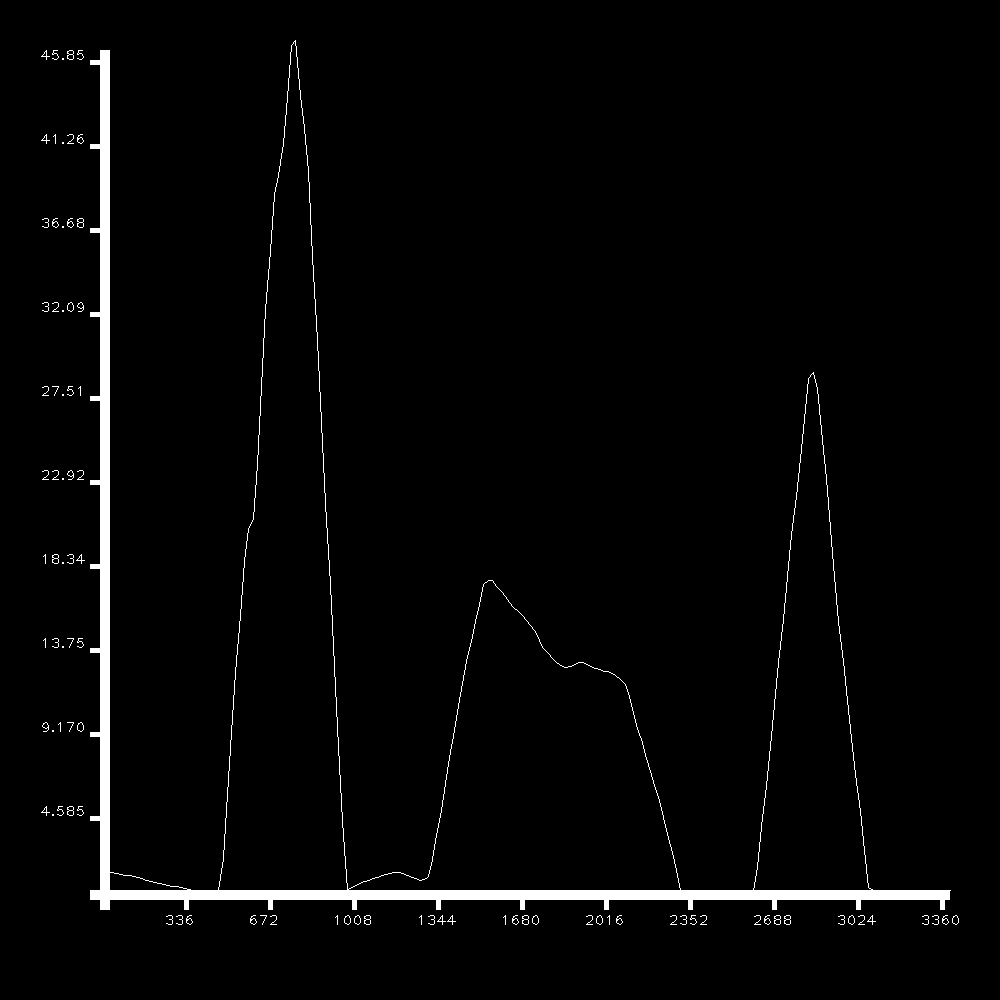
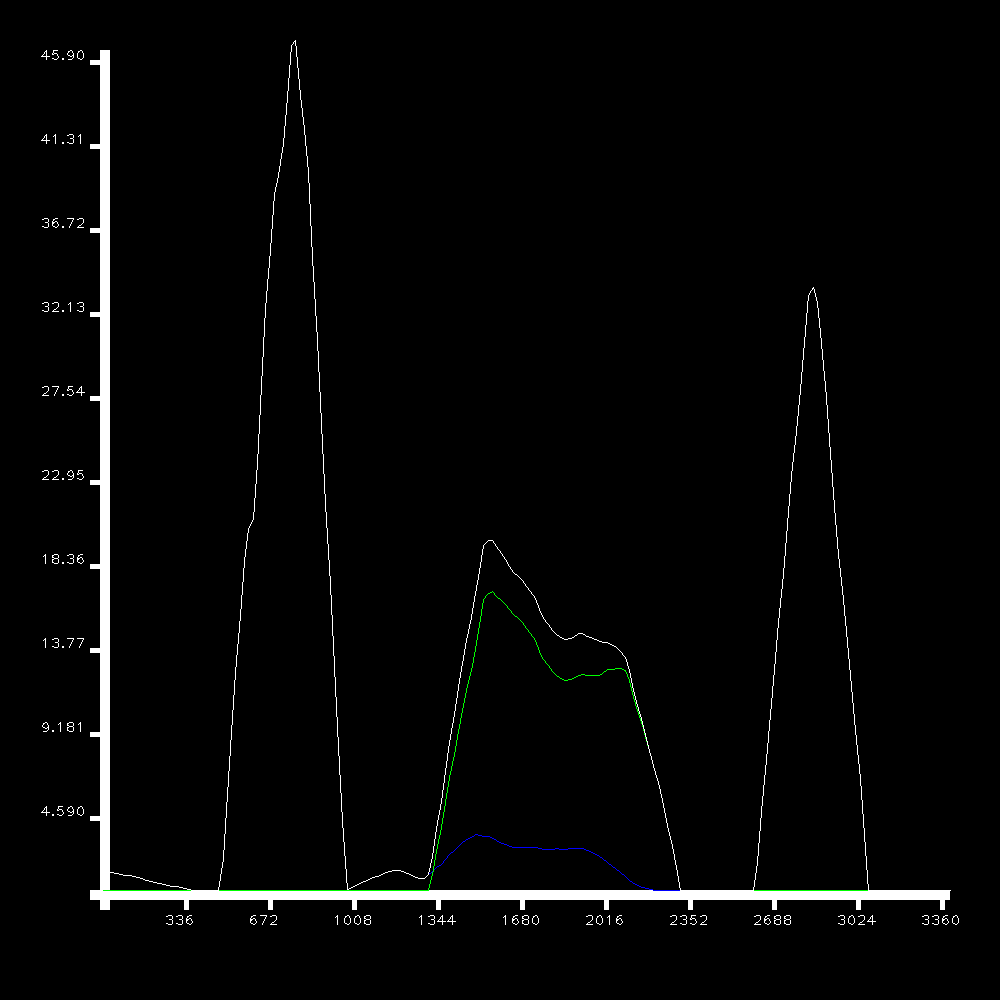
Add the color for the graph

Changed region(s): [[0.465, 0.589, 0.496, 0.62], [0.403, 0.868, 0.434, 0.899]]

diff --git a/Enemy_Data/graph.h b/Enemy_Data/graph.h
@@ -67,5 +67,61 @@ void inline create_graph(const points_array& points, std::string const path_to_s
     cv::imwrite(path_to_save, graph_image);
 
 }
+void inline create_graph(const std::vector<points_array>& tab_points, const std::vector<cv::Scalar>& colors, std::string const path_to_save)
+{
+    cv::Mat graph_image(1000, 1000, CV_8UC3, cv::Scalar(0,0,0));
+    // Creation of the axes. Width = 10.
+    cv::Rect const vertical_axe(100, 50, 10, 860);
+    cv::Rect const horizontal_axe(90, 890, 860, 10);
+    cv::rectangle(graph_image, vertical_axe, cv::Scalar(255, 255, 255), cv::FILLED);
+    cv::rectangle(graph_image, horizontal_axe, cv::Scalar(255, 255, 255), cv::FILLED);
+    points_array::size_type const n = 10;
+    points_array::size_type const step = 840 / n;
+    float max_value = -1; // The maximum value of the points.
+    int max_y = -1;
+    for (auto tab : tab_points)
+    {
+        for(auto elt : tab)
+        {
+            if (elt.second > max_value)
+                max_value = elt.second;
+            if(elt.first > max_y)
+                max_y = elt.first;
+        }
+    }
+    float value_per_pixel_y = 900.f / max_y;
+    float value_per_pixel_x = 850.f / max_value;
+    float write_step =  max_value / 10;
+    int step_x = max_y / 10;
+    for (points_array::size_type i = 1; i <= n; i++)
+    {
+        cv::Rect const rect_horizontal(100 + i*step, 900, 5, 10); 
+        cv::rectangle(graph_image, rect_horizontal, cv::Scalar(255, 255, 255), cv::FILLED);
+        cv::putText(graph_image, std::to_string(i * step_x), cv::Point(80 + i*step, 925), cv::FONT_HERSHEY_PLAIN, 1, cv::Scalar(255, 255, 255), 1.5);
+        
+        cv::Rect const rect_vertical(90, 900 - i*step,10, 5); 
+        cv::rectangle(graph_image, rect_vertical, cv::Scalar(255, 255, 255), cv::FILLED);
+        cv::putText(graph_image, truncate_float(write_step*i, 4), cv::Point(40, 900 - i*step), cv::FONT_HERSHEY_PLAIN, 1, cv::Scalar(255, 255, 255), 1.5);
+    }
+    for (int i = 0; i < tab_points.size(); i++)
+    {
+        points_array points = tab_points.at(i);
+        point point_avant = points.at(0);
+            for (points_array::size_type j = 1; j < points.size(); j++)
+            {
+                point point_apres = points.at(j);
+                float step_x_avant = value_per_pixel_x * point_avant.second;
+                float step_y_avant = value_per_pixel_y * point_avant.first;
+                float step_x_apres = value_per_pixel_x * point_apres.second;
+                float step_y_apres = value_per_pixel_y * point_apres.first;
+                cv::Point avant(50 + step_y_avant, 890 - step_x_avant);
+                cv::Point apres(50 + step_y_apres, 890 - step_x_apres);
+                cv::line(graph_image, avant, apres, colors.at(i));
+                point_avant = point_apres;
+            }
+    }
+    
+    cv::imwrite(path_to_save, graph_image);
 
+}
 #endif

diff --git a/Reach_Data/graph.h b/Reach_Data/graph.h
@@ -92,4 +92,62 @@ void inline find_max_points(const points_array& points, points_array& result)
     }
 }
 
+void inline create_graph(const std::vector<points_array>& tab_points, const std::vector<cv::Scalar>& colors, std::string const path_to_save)
+{
+    cv::Mat graph_image(1000, 1000, CV_8UC3, cv::Scalar(0,0,0));
+    // Creation of the axes. Width = 10.
+    cv::Rect const vertical_axe(100, 50, 10, 860);
+    cv::Rect const horizontal_axe(90, 890, 860, 10);
+    cv::rectangle(graph_image, vertical_axe, cv::Scalar(255), cv::FILLED);
+    cv::rectangle(graph_image, horizontal_axe, cv::Scalar(255), cv::FILLED);
+    points_array::size_type const n = 10;
+    points_array::size_type const step = 840 / n;
+    float max_value = -1; // The maximum value of the points.
+    int max_y = -1;
+    for (auto tab : tab_points)
+    {
+        for(auto elt : tab)
+        {
+            if (elt.second > max_value)
+                max_value = elt.second;
+            if(elt.first > max_y)
+                max_y = elt.first;
+        }
+    }
+    float value_per_pixel_y = 900.f / max_y;
+    float value_per_pixel_x = 850.f / max_value;
+    float write_step =  max_value / 10;
+    int step_x = max_y / 10;
+    for (points_array::size_type i = 1; i <= n; i++)
+    {
+        cv::Rect const rect_horizontal(100 + i*step, 900, 5, 10); 
+        cv::rectangle(graph_image, rect_horizontal, cv::Scalar(255, 255, 255), cv::FILLED);
+        cv::putText(graph_image, std::to_string(i * step_x), cv::Point(80 + i*step, 925), cv::FONT_HERSHEY_PLAIN, 1, cv::Scalar(255), 1.5);
+        
+        cv::Rect const rect_vertical(90, 900 - i*step,10, 5); 
+        cv::rectangle(graph_image, rect_vertical, cv::Scalar(255, 255, 255), cv::FILLED);
+        cv::putText(graph_image, truncate_float(write_step*i, 4), cv::Point(40, 900 - i*step), cv::FONT_HERSHEY_PLAIN, 1, cv::Scalar(255), 1.5);
+    }
+    for (int i = 0; i < tab_points.size(); i++)
+    {
+        points_array points = tab_points.at(i);
+        point point_avant = points.at(0);
+            for (points_array::size_type i = 1; i < points.size(); i++)
+            {
+                point point_apres = points.at(i);
+                float step_x_avant = value_per_pixel_x * point_avant.second;
+                float step_y_avant = value_per_pixel_y * point_avant.first;
+                float step_x_apres = value_per_pixel_x * point_apres.second;
+                float step_y_apres = value_per_pixel_y * point_apres.first;
+                cv::Point avant(50 + step_y_avant, 890 - step_x_avant);
+                cv::Point apres(50 + step_y_apres, 890 - step_x_apres);
+                cv::line(graph_image, avant, apres, colors.at(i));
+                point_avant = point_apres;
+            }
+    }
+    
+    cv::imwrite(path_to_save, graph_image);
+
+}
+
 #endif
